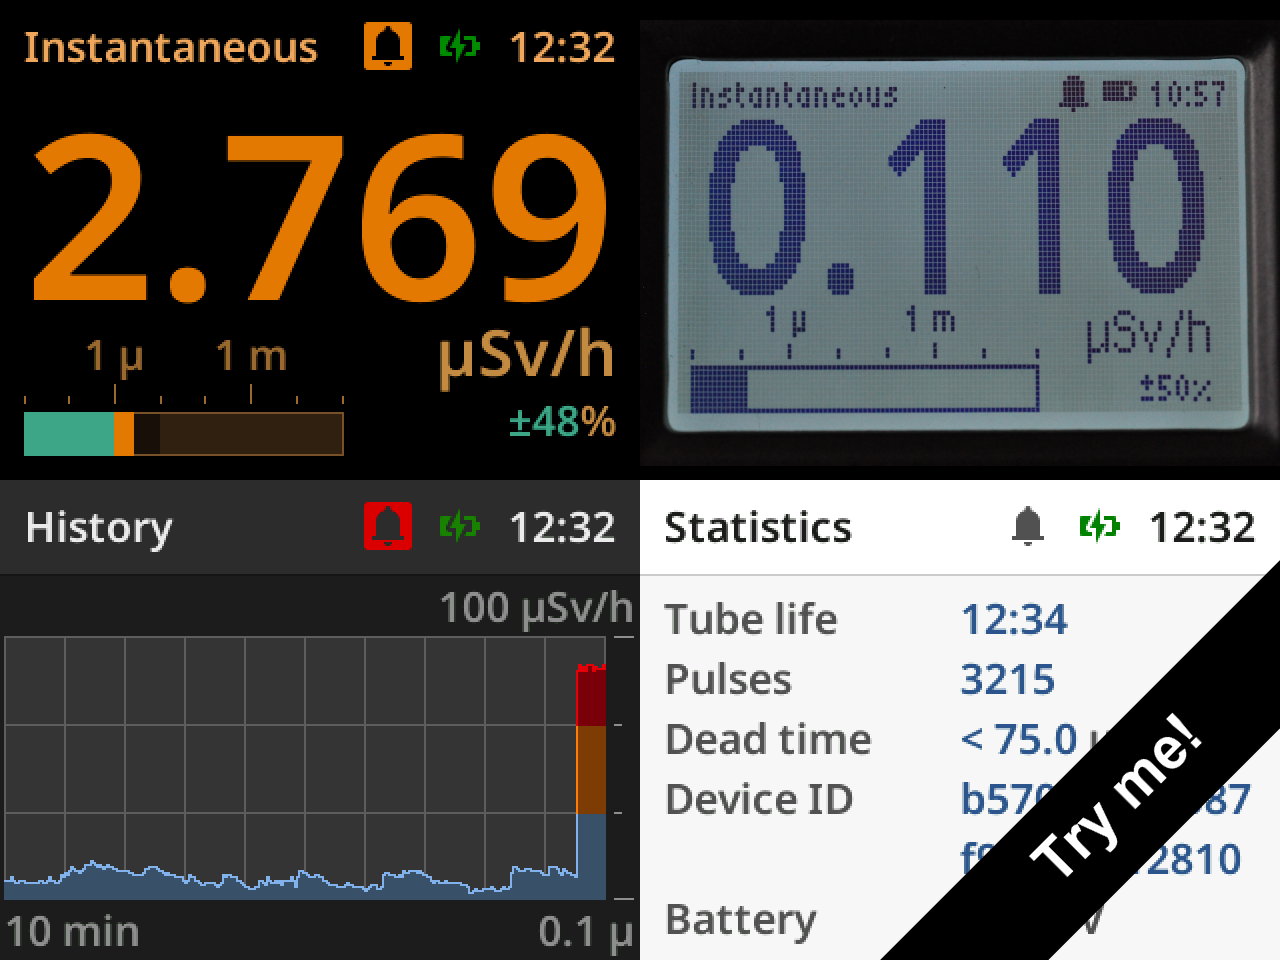
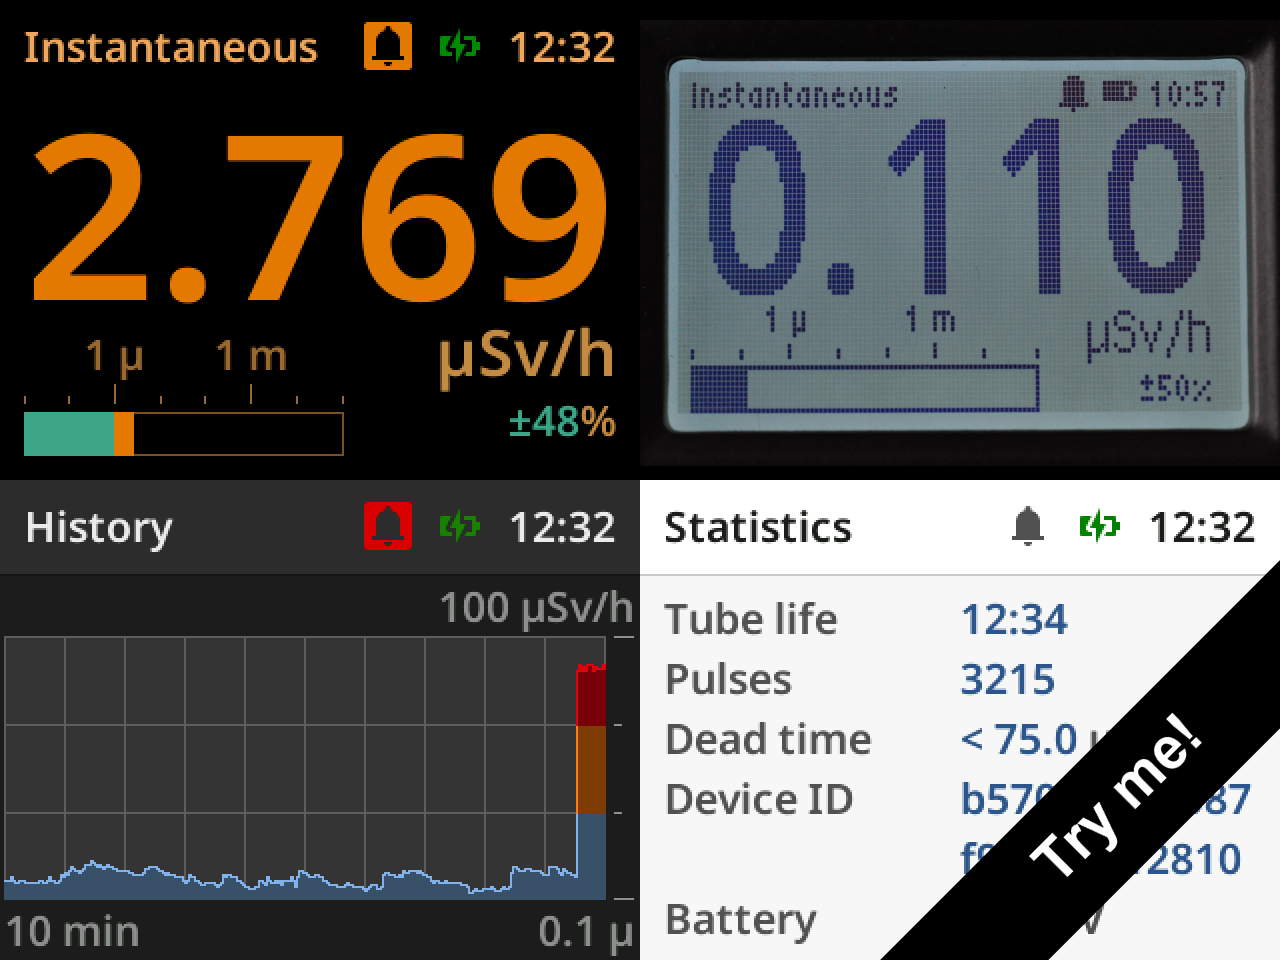
3.2

Changed region(s): [[0.125, 0.4062, 0.2812, 0.5]]

diff --git a/platform.io/src/ui/draw.c b/platform.io/src/ui/draw.c
@@ -90,16 +90,16 @@ static const mr_color_t displayColors[][3] = {
 
     // Instrument frame primary, warning zone: frame primary darkened in day
     // and dusk by two RGB565 red/blue steps (green: four, so it stays grey);
-    // at night, a very dark amber in the hue of the night frame tertiary
-    // color (R5 3, G6 4, B5 1)
+    // none at night, as frame primary is already black (a lighter zone reads
+    // as the opposite of a darker one)
     {mr_get_color(0xececec),
      mr_get_color(0x242424),
-     mr_get_color(0x181008)},
+     mr_get_color(0x000000)},
 
     // Instrument frame primary, alarm zone: twice the warning zone's steps
     {mr_get_color(0xdcdcdc),
      mr_get_color(0x141414),
-     mr_get_color(0x302010)},
+     mr_get_color(0x000000)},
 
     // Instrument frame tertiary
     {mr_get_color(0xbebebe),

diff --git a/RELEASES.md b/RELEASES.md
@@ -4,7 +4,7 @@
 
 * Added support for the GQ GMC-800V2.
 * Added **Estonian** translation.
-* On color displays, the visual bar now shades the zones above the rate warning and rate alarm levels, so you can see how close the rate is to an alert before it gets there.
+* On color displays, the visual bar now shades the zones above the rate warning and rate alarm levels (except in the night theme), so you can see how close the rate is to an alert before it gets there.
 * The history screen's scale label now shows the unit after the value (for example, "1 µSv/h" instead of "Sv/h: 1 µ").
 * Redesigned the instantaneous rate averaging. Adaptive readings no longer read about 5% too high at low rates. **Adaptive precision** now averages 100 pulses (±20% confidence) instead of 20 pulses over at least 5 seconds. **1 minute** now counts the pulses of the last minute; it previously read too high at low rates (by about 50% with low-sensitivity tubes) and could show spikes. Adaptive averaging now restarts when the rate clearly changes, so readings follow large drops within seconds instead of minutes (for example, after moving away from a radioactive source). The 30 seconds and 10 seconds options were removed; counters set to them switch to **Adaptive fast**.
 * Timed average rates are now measured from the start of the average, instead of from its first pulse.

diff --git a/docs/users-manual.md b/docs/users-manual.md
@@ -72,7 +72,7 @@ The **visual bar** on the instantaneous rate screen represents radiation levels 
 
 * Each step corresponds to a **10× increase**
 * Designed to make both low and high levels readable
-* On color displays, the zones above the rate warning and rate alarm levels are shaded
+* On color displays, the zones above the rate warning and rate alarm levels are shaded (except in the night theme)
 
 This allows you to quickly recognize significant changes without focusing on exact values.
 
